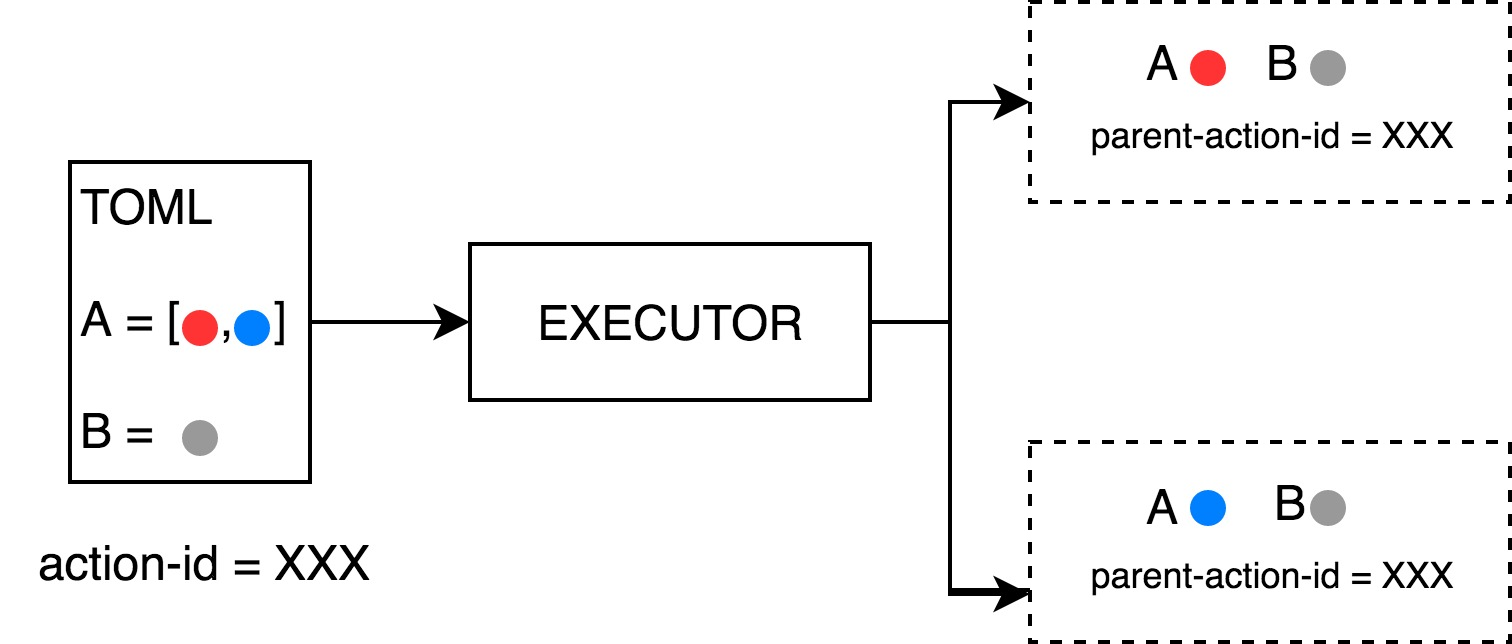
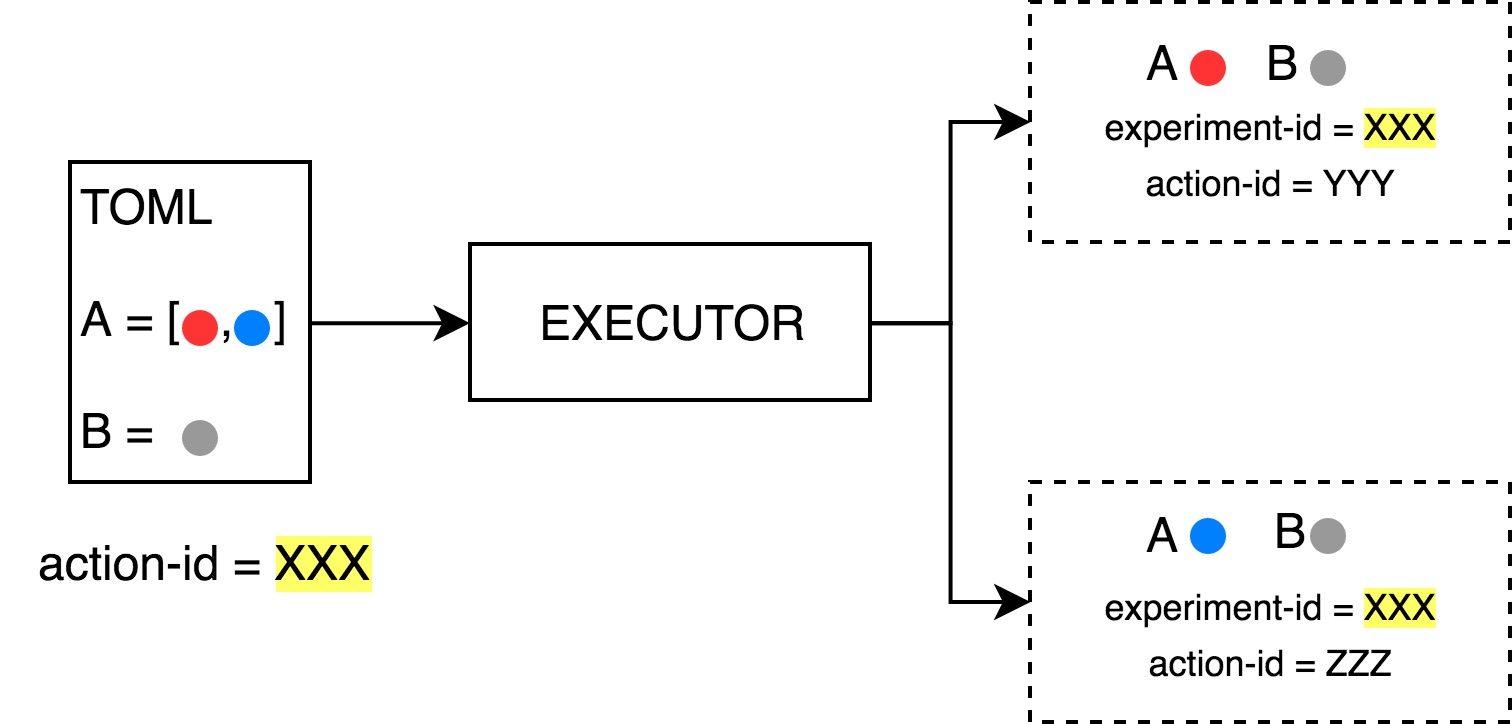
[docs] Update Experiments RFC

diff --git a/docs/RFCs/toml_ranges.md b/docs/RFCs/toml_ranges.md
@@ -1,6 +1,7 @@
-# RFC: Range capabilities in TOML
+# RFC: Range capabilities in TOML: Experiments
 
-Let users specify ranges of values for TOML parameters so that multiple benchmark jobs can be defined using a single descriptor. 
+Let users specify ranges of values for TOML parameters so that multiple benchmark jobs can be defined using a single 
+descriptor.
 
 **Author Name**: Jose Luis Contreras
 
@@ -10,56 +11,83 @@ Let users specify ranges of values for TOML parameters so that multiple benchmar
 
 ### Need
 
-Often times, ML benchmarks try to compare the performance of different systems which only differ in one or a few parameters. In order to do this with the current Anubis, users would need to create and submit a new descriptor TOML file for each one of the possible parameter combinations they want to test. Using the improvement we propose here, this will be feasible using a single TOML file which specifies ranges of values (instead of simple values) for some parameters.
+Often times, ML benchmarks try to compare the performance of different systems which only differ in one or a few 
+parameters. In order to do this with the current Anubis, users would need to create and submit a new descriptor TOML 
+file for each one of the possible parameter combinations they want to test. Using the improvement we propose here, this 
+will be feasible using a single TOML file which specifies ranges of values (instead of simple values) for some 
+parameters. We call this an *experiment*.
 
 
 ### Approach 
 
-Adding this capability to the system would require some modifications:
+In order to support experiments, the system would require some modifications:
 
 1. Design a syntax for users to specify ranges or lists of values in their TOML files.  
-2. Adding a descriptor preprocessing step to turn a TOML file containing lists into many individual descriptors, each one defining a single benchmark to be executed.
+2. Adding a descriptor preprocessing step to turn a TOML file containing lists into many individual descriptors, each 
+one defining a single benchmark to be executed.
 3. Add a new label to jobs, *action-family, *which serves to group benchmarks originated from the same TOML.
 
 
 **Descriptor syntax**
 
-To specify multiple values for a parameter, we use TOML arrays (https://github.com/toml-lang/toml#user-content-array). For example, the snippet would schedule two benchmarks, one running on p3.8xlarge instance and the second one running on a p3.16xlarge.
+To specify multiple values for a parameter, we use TOML arrays (https://github.com/toml-lang/toml#user-content-array). 
+For example, the snippet would schedule two benchmarks, one running on p3.8xlarge instance and the second one running on
+a p3.16xlarge.
 
 ```
 # ...
 [hardware]
-instance_type** **= ["p3.8xlarge", "p3.16xlarge"]
+instance_type = ["p3.8xlarge", "p3.16xlarge"]
 # ...
 ```
 
-In case multiple fields use this feature, the resulting jobs correspond to the cartesian product of the different options. 
+In case multiple fields use this feature, the resulting jobs correspond to the cartesian product of the different 
+options. 
 
 
 **Descriptor preprocessing**
 
-The executor service is in charge of converting a TOML containing ranges into multiple jobs with only one value per parameter.
+The executor service is in charge of converting a TOML containing ranges into multiple jobs with only one value per 
+parameter.
 ![Image: toml_ranges .jpg](../images/toml_ranges.jpg)
 
 
-**parent-action-id label**
+**experiment-id label**
 
-Similar to what is done with the scheduled benchmarks, all jobs derived from a TOML containing multiple-value parameters share a common label: *parent-action-id*. The value of this label corresponds to the action id of the message which submitted the original multi-value TOML. This is important because then this label can be used in a label selector to identify all these children jobs. For example, if the customer decides to cancel all jobs originated from a given multi-value TOML submitted with action id X, we can do so by deleting all jobs with *parent-action-id = X.*
+Similar to what is done with the scheduled benchmarks, all jobs derived from an experiment share a common label: 
+*experiment-id*. The value of this label corresponds to the action id of the message which submitted the original 
+multi-value TOML. This is important because then this label can be used in a label selector to identify all these 
+children jobs. For example, if the customer decides to cancel all jobs originated from a experiment submitted with 
+action id X, we can do so by deleting all jobs with *experiment-id = X*.
+
+
+**Scheduled experiments**
+
+Experiments can be scheduled in the same way simple benchmarks are. An scheduled experiment creates a CronJob which then 
+periodically launches experiments. 
+
+![Image: toml_ranges .jpg](../images/scheduled_experiments.jpg)
 
 
 ### Benefit
 
-This feature gives users an extremely convenient way to implement a very common use case. They can compare tens of different setups by submitting a single descriptor TOML file almost as simple as a single benchmark one. 
+This feature gives users an extremely convenient way to implement a very common use case. They can compare tens of 
+different setups by submitting a single descriptor TOML file almost as simple as a single benchmark one. 
 
-Besides, creating the concept of *action-family *opens the door for further improvements. For example, there could be special visualizations where benchmarks belonging to the same *action-family *are compared so customers can get detailed insights on how their different setups perform relative to each other.
+Besides, creating the concept of *action-family *opens the door for further improvements. For example, there could be 
+special visualizations where benchmarks belonging to the same *action-family *are compared so customers can get detailed
+insights on how their different setups perform relative to each other.
 
 
 ### Competition (alternatives)
 
-The current way for users to get the results this RFC describes is to submit a descriptor file for each one of the possible parameter combinations they want to test. This approach is time consuming and requires repetitive work which can be avoided if the solution proposed here is implemented.
+The current way for users to get the results this RFC describes is to submit a descriptor file for each one of the 
+possible parameter combinations they want to test. This approach is time consuming and requires repetitive work which 
+can be avoided if the solution proposed here is implemented.
 
 
 ### Non-goals 
 
-In a first version, this feature would be limited to lists, meaning users can provide a list of possible values for a parameter. In the future, it could be extended to support ranges.
+In a first version, this feature would be limited to lists, meaning users can provide a list of possible values for a 
+parameter. In the future, it could be extended to support ranges.
 
